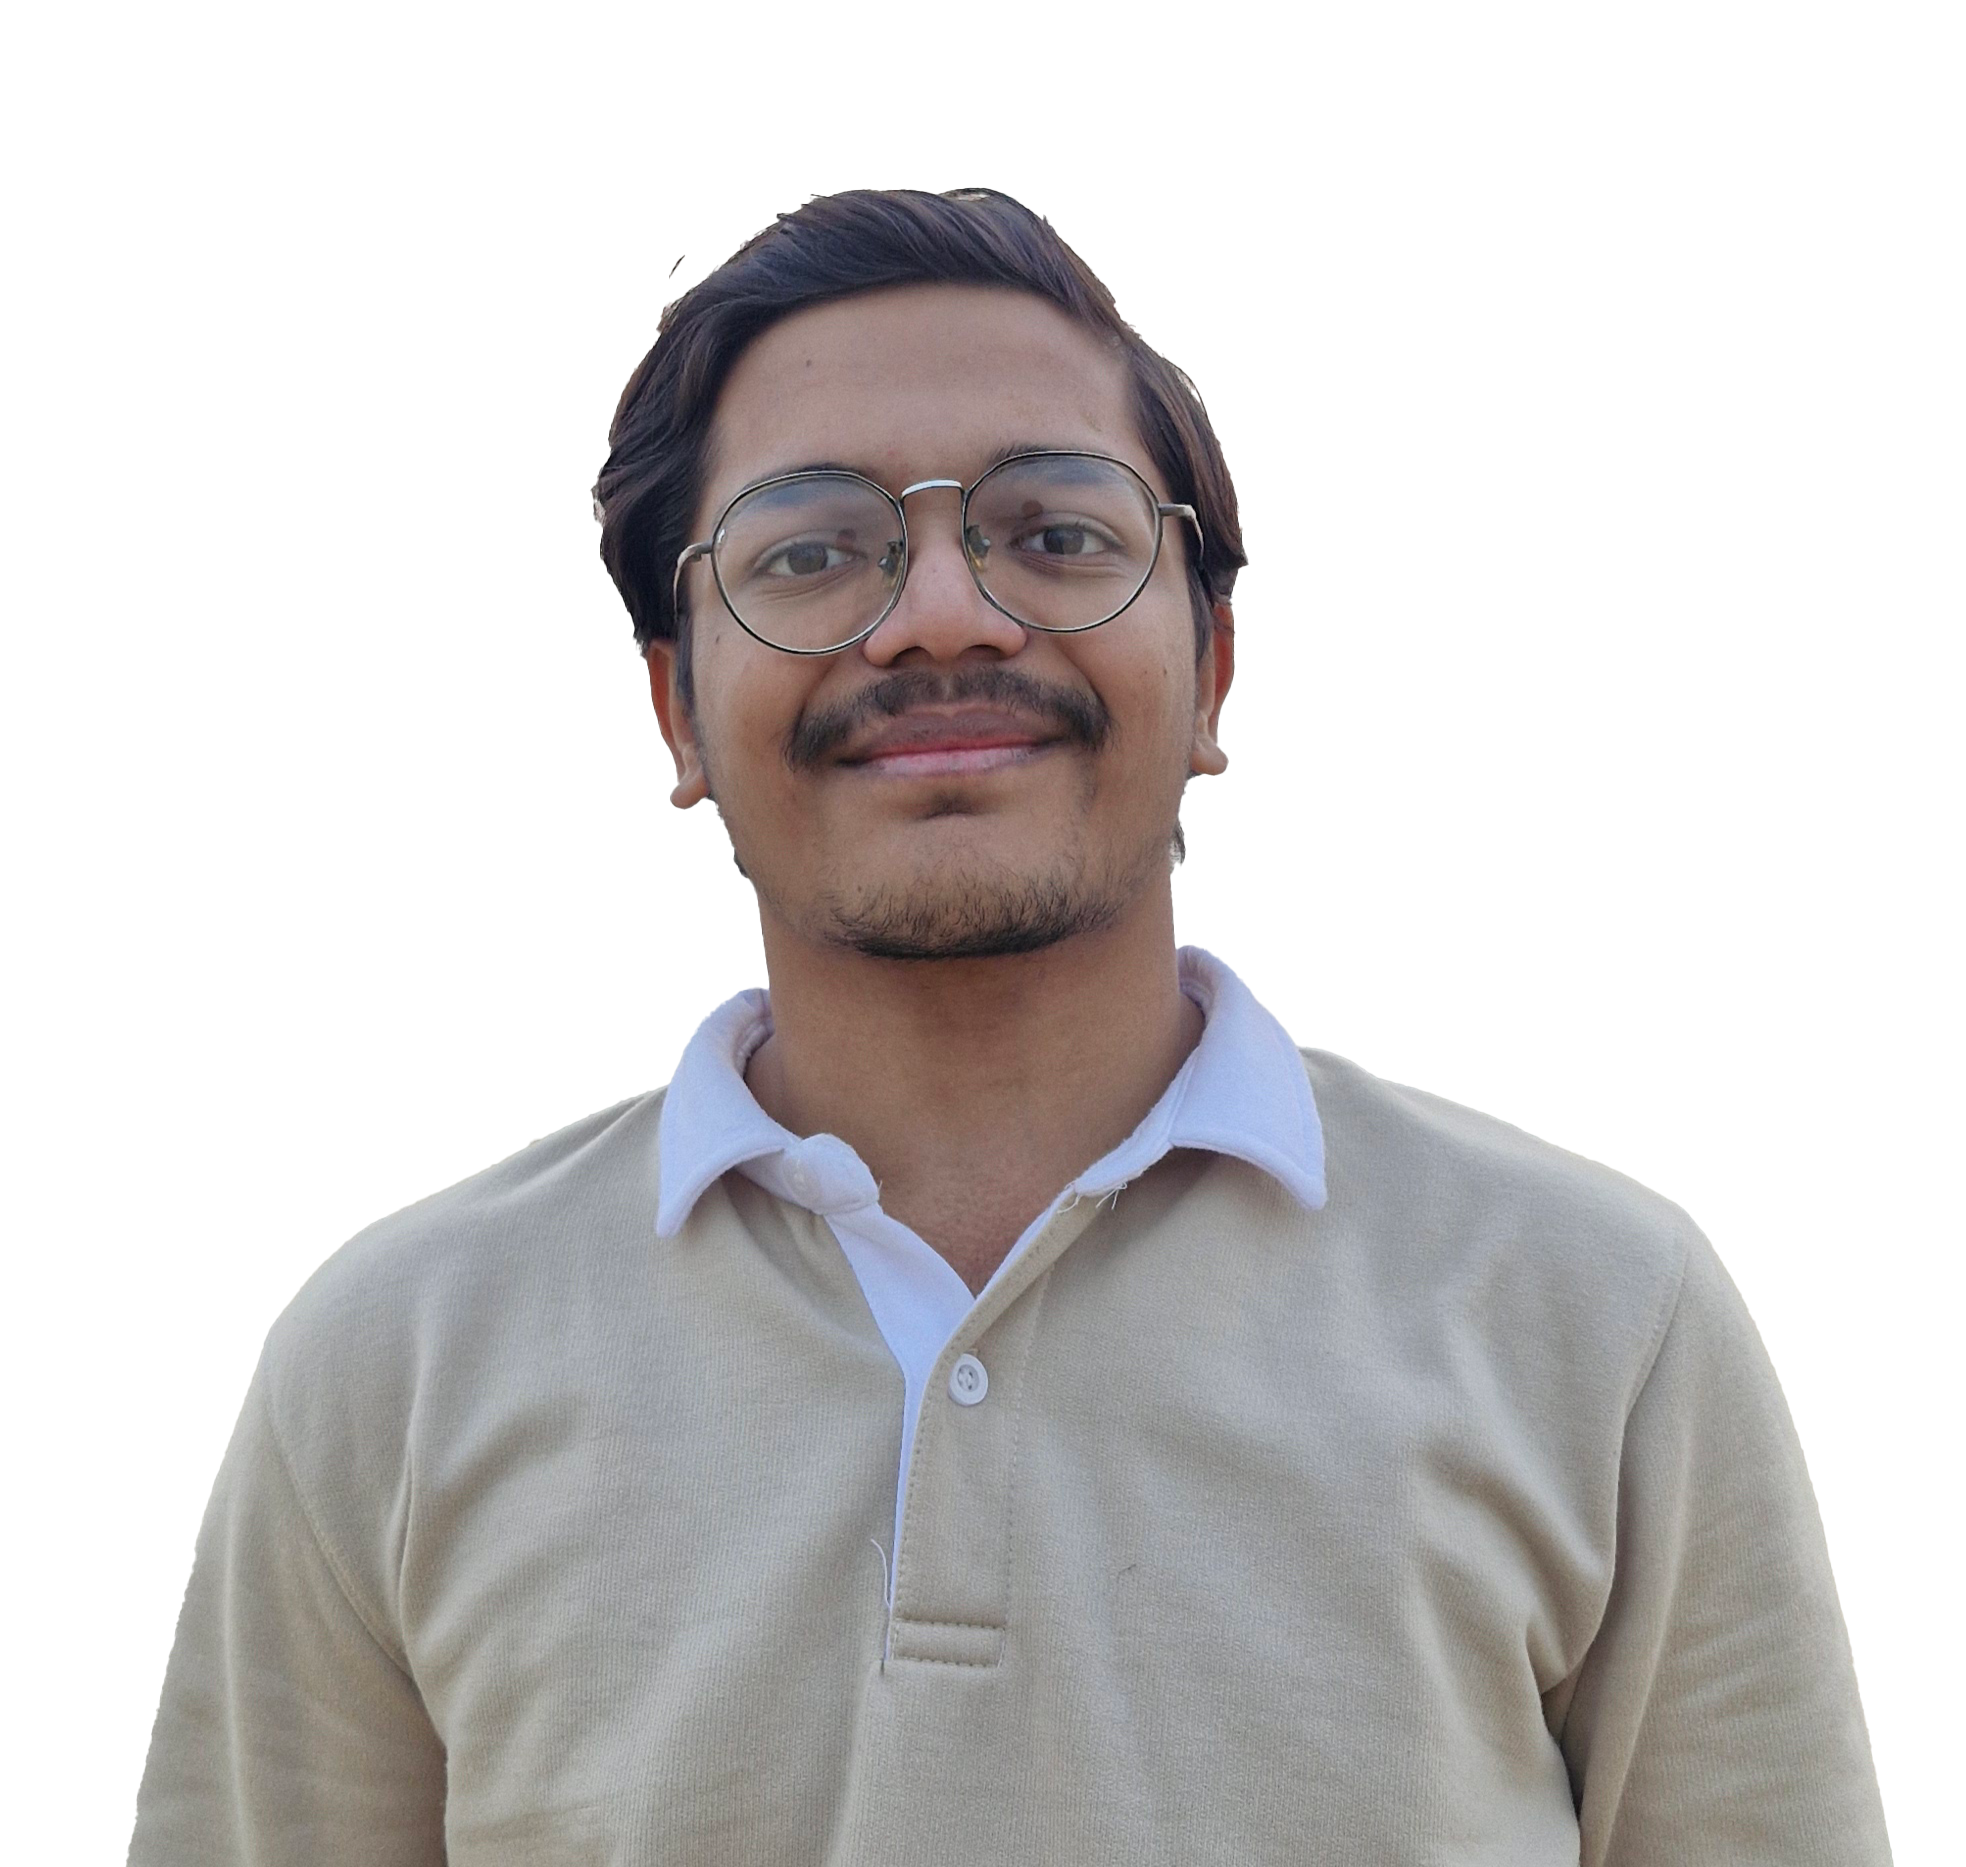
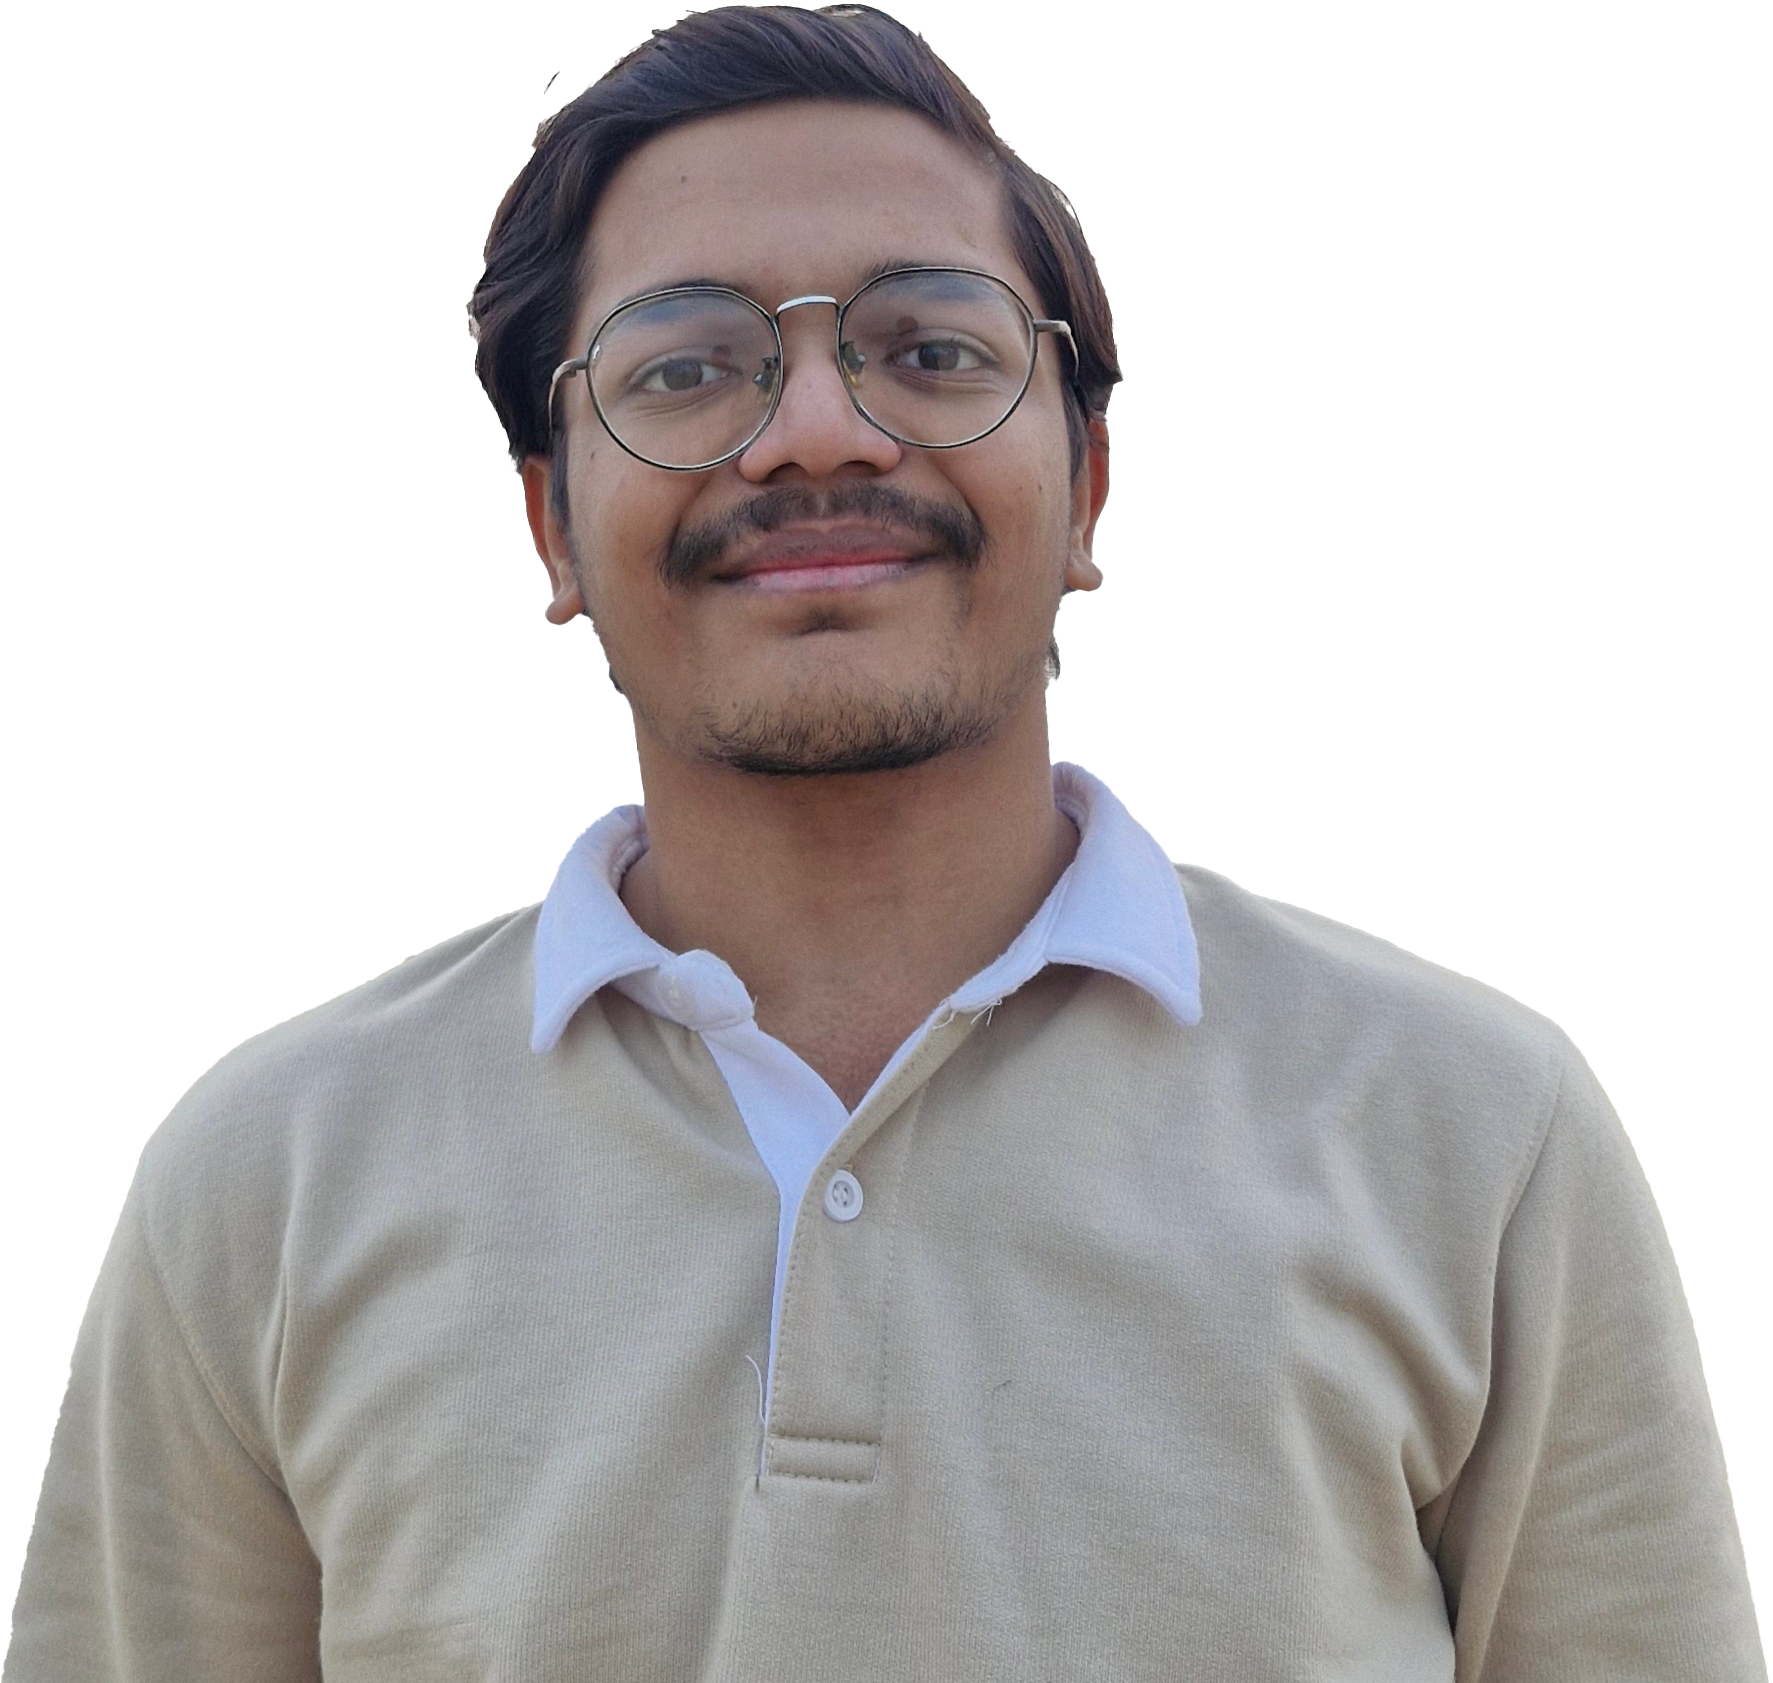
feat: hero section

Changed region(s): [[0.0, 0.0, 1.0, 1.0], [0.5894, 0.7415, 0.6514, 0.7724]]

diff --git a/components/Hero.tsx b/components/Hero.tsx
@@ -1,0 +1,98 @@
+'use client';
+import React, { useEffect, useState } from 'react';
+import Image from 'next/image';
+import { motion } from 'framer-motion';
+
+const FloatingCircle = ({ className }: { className: string }) => {
+  return (
+    <motion.div
+      className={`bg-yellow-400 rounded-full ${className}`}
+      animate={{
+        y: ["0%", "50%", "0%"],
+      }}
+      transition={{
+        duration: Math.random() * 4 + 3,
+        repeat: Infinity,
+        ease: "easeInOut",
+        repeatType: "reverse"
+      }}
+    />
+  );
+};
+
+const HeroSection = () => {
+  const [repeatingTextCount, setRepeatingTextCount] = useState(7);
+
+  useEffect(() => {
+    const updateTextCount = () => {
+      const width = window.innerWidth;
+      if (width >= 1024) { // lg
+        setRepeatingTextCount(7);
+      } else if (width >= 768) { // md
+        setRepeatingTextCount(10);
+      } else { // sm
+        setRepeatingTextCount(20);
+      }
+    };
+
+    updateTextCount();
+    window.addEventListener('resize', updateTextCount);
+    return () => window.removeEventListener('resize', updateTextCount);
+  }, []);
+
+  return (
+    <div className="relative h-[calc(100vh-64px)] bg-[#0a0f1c] overflow-hidden">
+      {/* Background repeating text */}
+      <div className="absolute inset-0 flex flex-col items-center 
+                    px-4 md:px-8 lg:px-12
+                    justify-start pt-0">
+        {[...Array(repeatingTextCount)].map((_, index) => (
+          <h2 
+            key={index}
+            className="text-[min(7vw,4rem)] md:text-[min(6vw,5rem)] lg:text-[min(5vw,6rem)] 
+                       font-oswald text-white whitespace-nowrap tracking-wide
+                       opacity-100 leading-tight"
+          >
+            HELLO, I'M PURV KABARIA
+          </h2>
+        ))}
+      </div>
+
+      {/* Floating circles with adjusted positions to prevent collisions */}
+      <div className="absolute inset-0 pointer-events-none">
+        <FloatingCircle className="absolute top-[5%] left-[5%] 
+                                  w-8 h-8 md:w-16 md:h-16 lg:w-20 lg:h-20" />
+        <FloatingCircle className="absolute top-[20%] right-[10%] 
+                                  w-10 h-10 md:w-14 md:h-14 lg:w-16 lg:h-16" />
+        <FloatingCircle className="absolute bottom-[40%] left-[15%] 
+                                  w-12 h-12 md:w-20 md:h-20 lg:w-24 lg:h-24" />
+        <FloatingCircle className="absolute top-[60%] right-[20%] 
+                                  w-14 h-14 md:w-16 md:h-16 lg:w-18 lg:h-18" />
+        <FloatingCircle className="absolute bottom-[15%] right-[25%] 
+                                  w-16 h-16 md:w-18 md:h-18 lg:w-20 lg:h-20" />
+      </div>
+
+      {/* Main content container */}
+      <div className="relative h-full flex items-end md:items-end justify-center">
+        <motion.div 
+          className="relative w-[180%] h-[85%]
+                     md:w-[500px] md:h-full lg:w-[600px]
+                     -mx-[40%] md:mx-0" 
+          initial={{ opacity: 0, y: 20 }}
+          animate={{ opacity: 1, y: 0 }}
+          transition={{ duration: 1.2, ease: "easeOut" }}
+        >
+          <Image
+            src="/images/purv.png"
+            alt="Purv Kabaria"
+            fill
+            className="object-contain object-bottom grayscale"
+            priority
+          />
+        </motion.div>
+      </div>
+    </div>
+  );
+};
+
+export default HeroSection;

diff --git a/components/Navbar.tsx b/components/Navbar.tsx
@@ -4,9 +4,9 @@ import Image from 'next/image';
 
 const Navbar = () => {
   return (
-    <nav className="bg-cblack py-6 px-6">
-      <div className="container mx-auto">
-        <div className="hidden md:flex items-center justify-between">
+    <nav className="bg-cblack h-16">
+      <div className="container mx-auto h-full px-6">
+        <div className="hidden md:flex items-center justify-between h-full">
           <Link href="/">
             <Image
               src="/images/signature.png"
@@ -39,7 +39,7 @@ const Navbar = () => {
           </div>
         </div>
 
-        <div className="md:hidden flex justify-center">
+        <div className="md:hidden flex justify-center items-center h-full">
           <Link href="/">
             <Image
               src="/images/signature.png"

diff --git a/app/page.tsx b/app/page.tsx
@@ -1,9 +1,11 @@
+import Hero from "@/components/Hero";
 import Navbar from "@/components/Navbar";
 
 export default function Home() {
     return (
         <>
             <Navbar />
+            <Hero />
         </>
     )
 }

diff --git a/app/globals.css b/app/globals.css
@@ -20,12 +20,12 @@
 * {
   margin: 0;
   padding: 0;
+  ::-webkit-scrollbar {
+    display: none;
+  }
 }
 
 body {
   overflow-x: hidden;
-  ::-webkit-scrollbar {
-    display: none;
-  }
   background-color: #393E46;
 }
